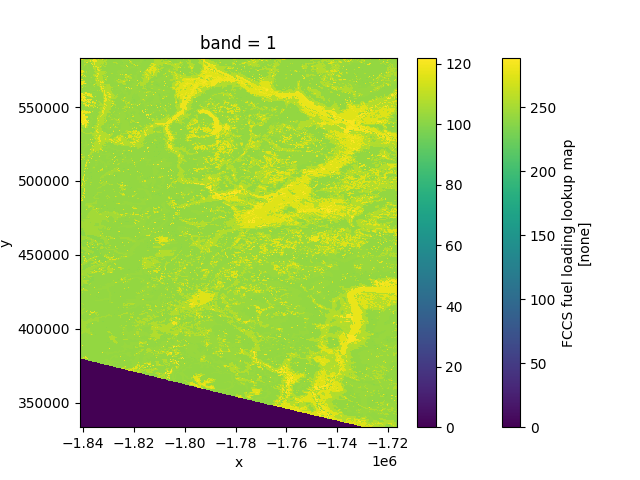
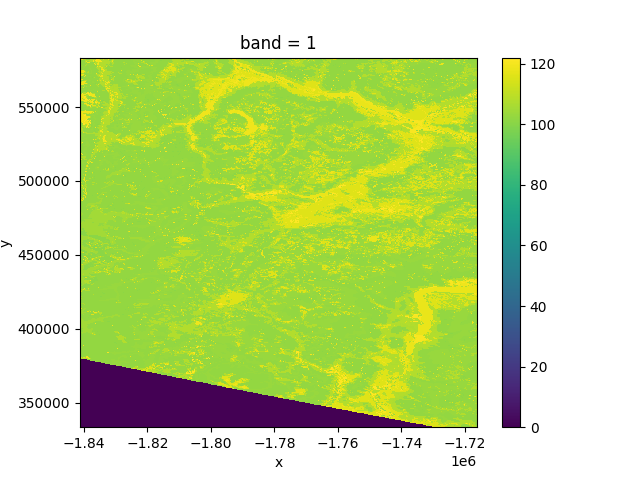
tried reprojecting Canada

diff --git a/main.py b/main.py
@@ -9,24 +9,48 @@ import cartopy.feature as cfeature
 import scipy
 import rasterio
 from affine import Affine
+import pyproj
+import proj
 
 # import Canadian fuel data
 canadian_file_path = "data/nat_fbpfuels_2014b.tif"
 cdata = xr.open_rasterio(canadian_file_path)
 
+# transform to match US
+print(cdata)
+p1 = pyproj.Proj(cdata.crs)
+#todo: automate parameters below from adata
+p2 = pyproj.Proj("+proj=lcc +lat_0=40 +lon_0=-100 +lat_1=33 +lat_2=45")
+(newx, newy) = pyproj.transform(p1, p2, cdata.x[0:np.size(cdata.y)], cdata.y) #wrong but for proof of concept
+print(newx)
+print(newy)
+
 # convert Canadian fuel types to American
 
+
+print("A")
 # import American fuel data
 adata = xr.open_dataset("data/fccs_fuelload.nc")
+#print(adata.attrs)
 
-# get both datasets in a form that can be combined
-#transform = Affine.from_gdal(*cdata.attrs['transform'])
-#nx, ny = cdata.sizes['x'], cdata.sizes['y']
-#x, y = np.meshgrid(np.arange(nx)+0.5, np.arange(ny)+0.5) * transform
-#print(x)
+# add coordinates from metadata
+xcoords = np.linspace(adata.XORIG, adata.XORIG + adata.XCELL*adata.NCOLS, num=adata.NCOLS)
+ycoords = np.linspace(adata.YORIG, adata.YORIG + adata.YCELL*adata.NROWS, num=adata.NROWS)
+
+adata = adata.FCCS_FuelLoading
+#print(adata)
+adata = adata.assign_coords(COL=xcoords)
+adata = adata.assign_coords(ROW=ycoords)
+#print(adata)
+
+print("FUELLOADING: ")
+#print(adata)
+adata.plot()
+plt.savefig('UStestfig.png')
+
 # combine datasets
 
-print(adata.ROW)
+
 
 
 # export to netCDF

diff --git a/test.py b/test.py
@@ -15,9 +15,8 @@ nc = Dataset('data/fccs_fuelload.nc')
 #print(nc)
 data = xr.open_dataset("data/fccs_fuelload.nc")
 print("XARRAY: ")
-print(data)
-print(data.FCCS_FuelLoading)
-dataplot = data.FCCS_FuelLoading.where(data.FCCS_FuelLoading != -9999.)
+print(data.attrs)
+#dataplot = data.where(data != -9999.)
 #dataplot.plot()
 #plt.savefig('UStestfig.png')
 
